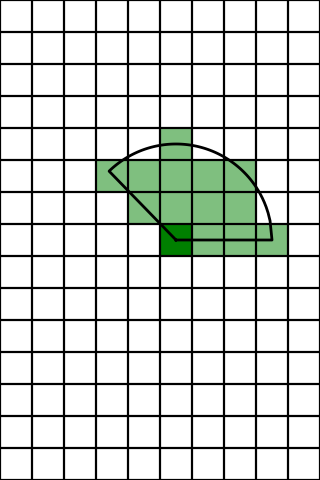
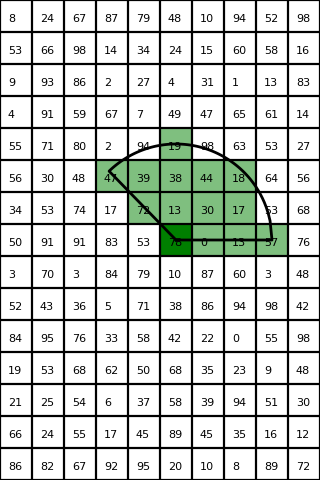
windows without values

diff --git a/create_results.py b/create_results.py
@@ -159,7 +159,7 @@ make_image(out, "figures/wedge_3_0_135_out_std.png")
 window = get_values(file, Wedge(3, 0, 135), 7, 5, show_window = 1)[0]
 make_image(file, 'figures/wedge_3_0_135_out_window.png', show_window = True,
            window_type = "wedge", window = window, cmap = cmap, start = 0, end = 135)
-make_image(file, 'figures/wedge_3_0_135_out_window.png', show_window = True, add_values = False,
+make_image(file, 'figures/wedge_3_0_135_out_window_no_values.png', show_window = True, add_values = False,
            window_type = "wedge", window = window, cmap = cmap, start = 0, end = 135)
 
 
@@ -181,7 +181,7 @@ window[6:10, 3:9] = 0.5
 window[7, 5] = 1
 make_image(file, 'figures/rectangle_5_3_out_window.png', show_window = True,
            window_type = "rectangle", window = window, cmap = cmap, corner = (3,8,6,9))
-make_image(file, 'figures/rectangle_5_3_out_window.png', show_window = True, add_values = False,
+make_image(file, 'figures/rectangle_5_3_out_window_no_values.png', show_window = True, add_values = False,
            window_type = "rectangle", window = window, cmap = cmap, corner = (3,8,6,9))
 
 
